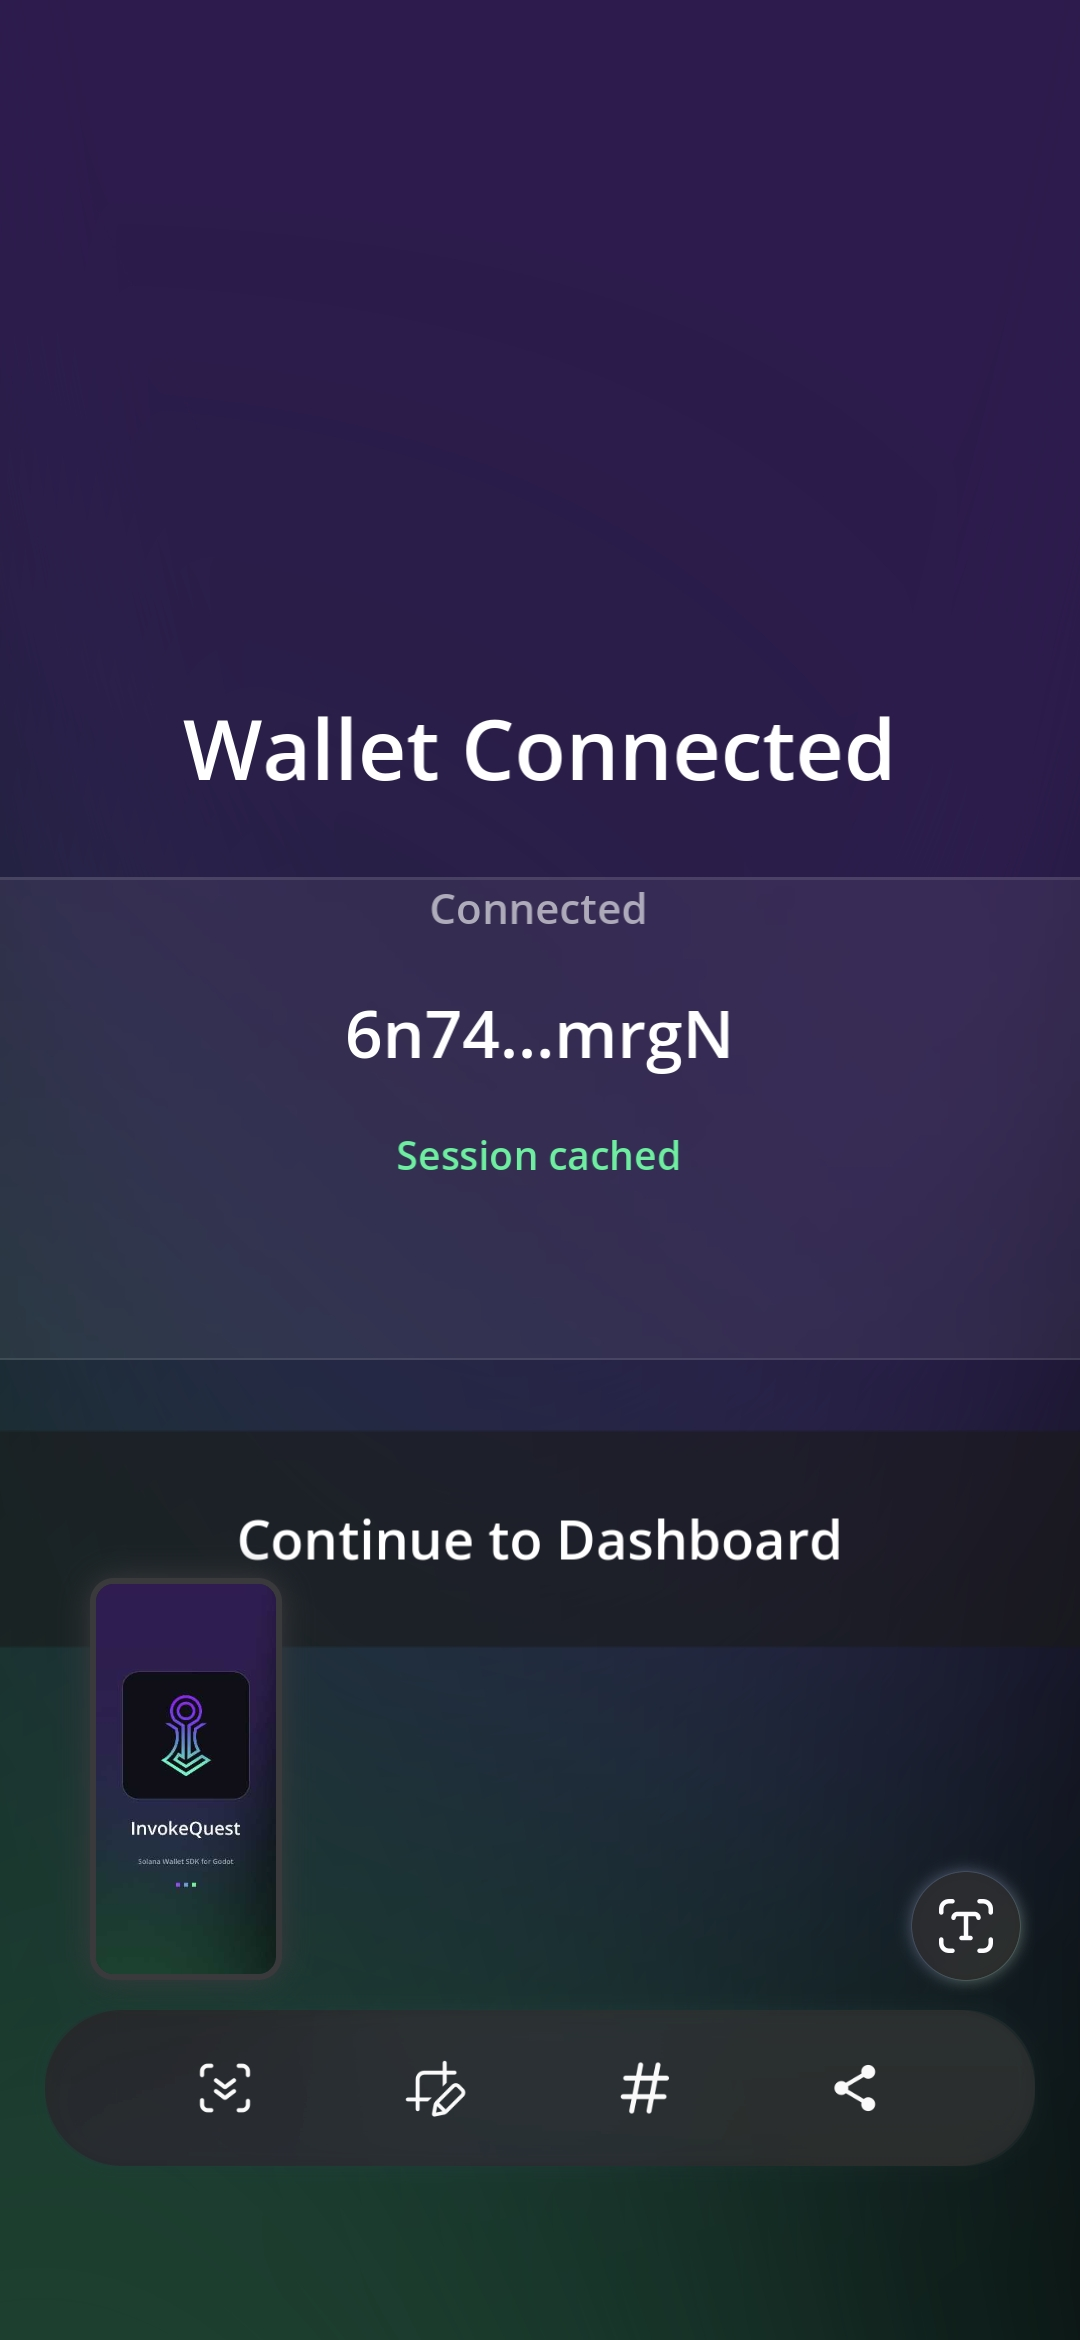
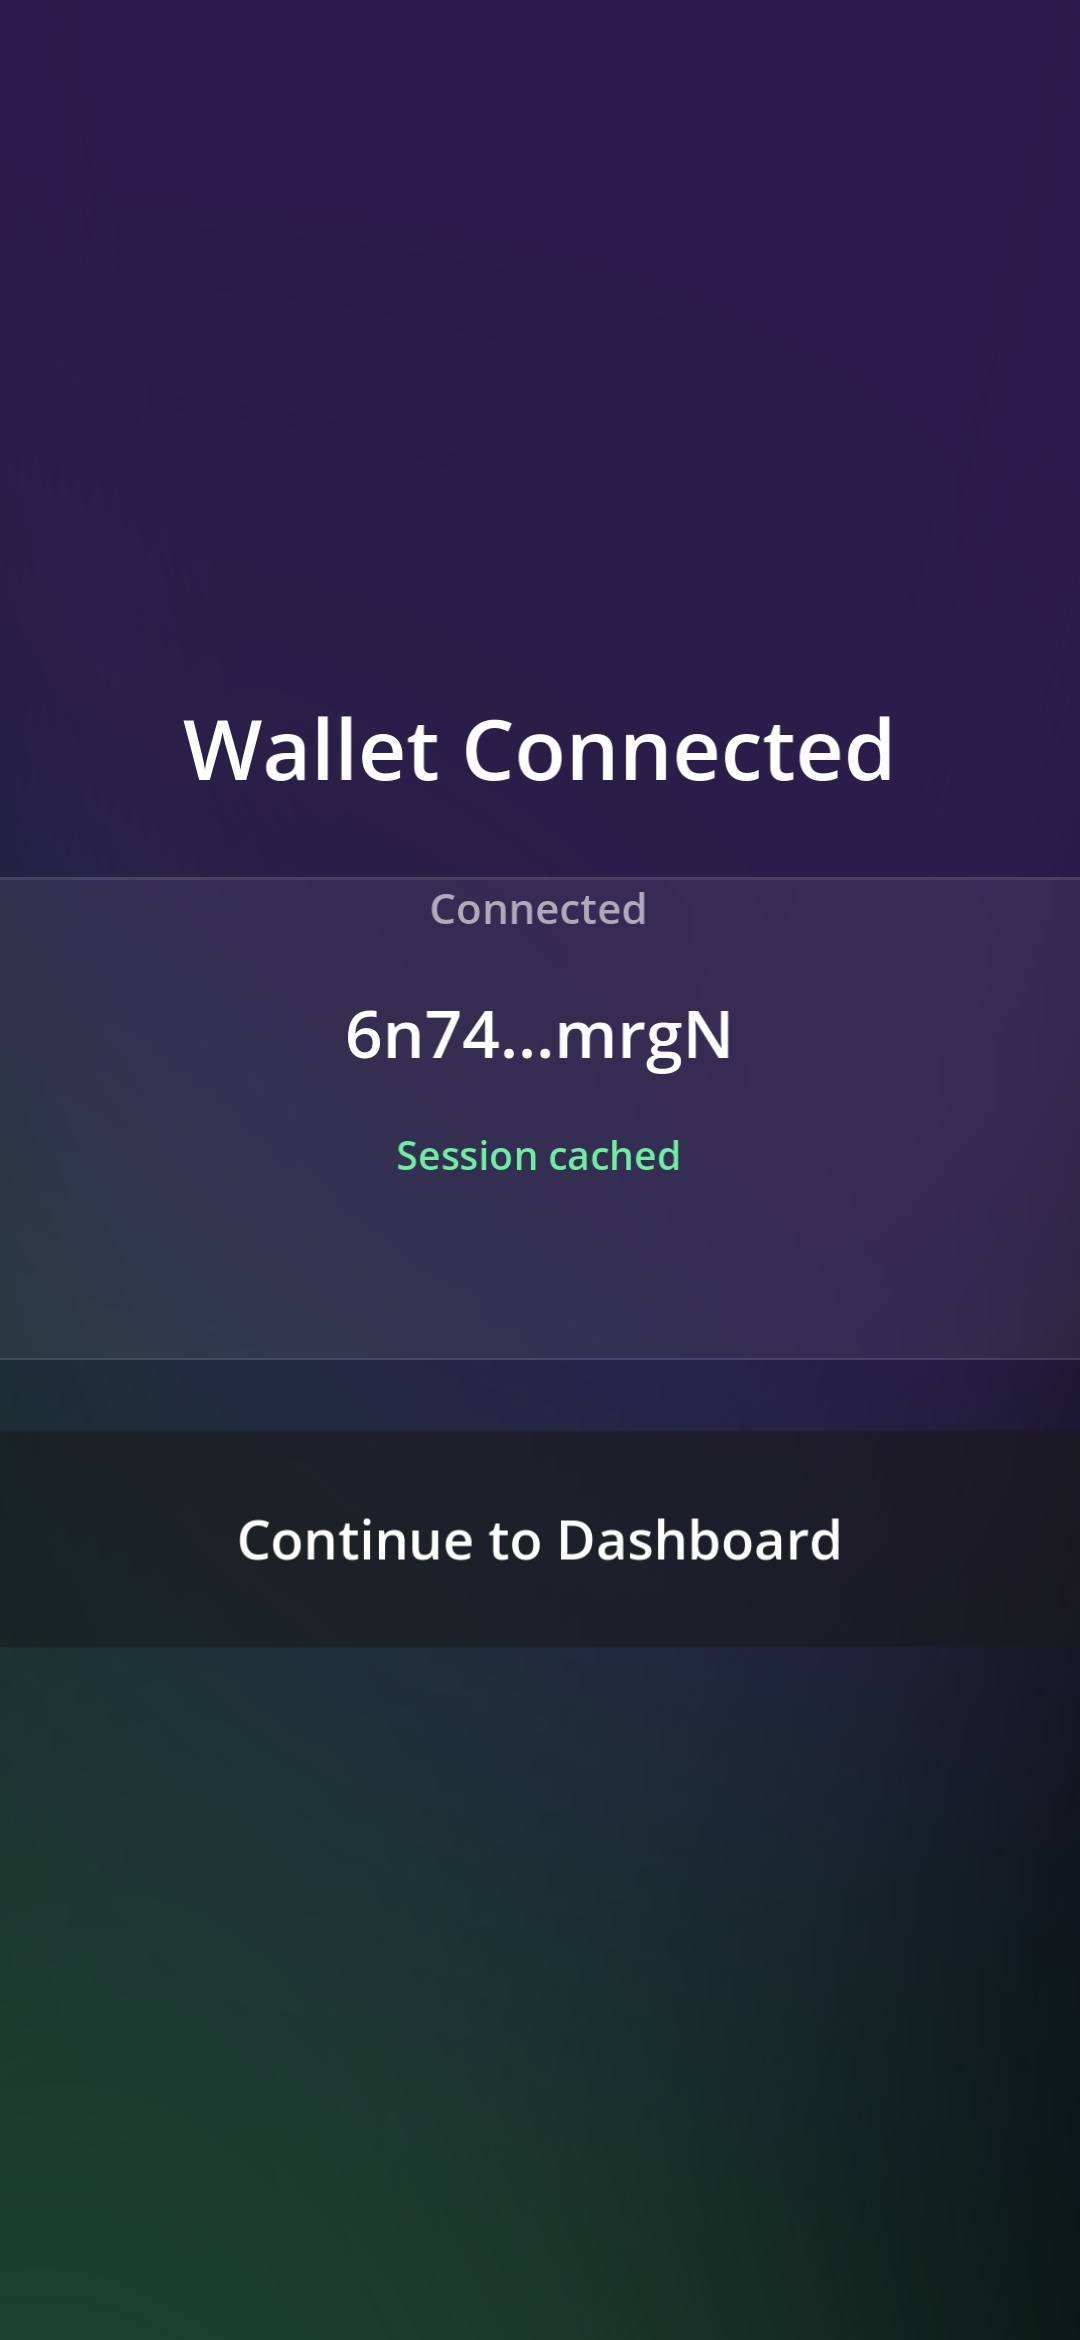
docs: add demo video, fix screenshot, trademark notice, Solscan note, demo app mention

diff --git a/README.md b/README.md
@@ -4,6 +4,8 @@
 
 **Solana Mobile Wallet Adapter 2.0.3 plugin for Godot 4 on Android**
 
+https://github.com/plinkdev1/invoke-solana-sdk/raw/main/docs/static/img/invoke-demo.mp4
+
 [![License: MIT](https://img.shields.io/badge/License-MIT-purple.svg)](LICENSE)
 [![Godot 4.2](https://img.shields.io/badge/Godot-4.2.2-blue)](https://godotengine.org)
 [![MWA 2.0.3](https://img.shields.io/badge/MWA-2.0.3-9945FF)](https://github.com/solana-mobile/mobile-wallet-adapter)
@@ -249,6 +251,12 @@ Auth tokens are stored in `EncryptedSharedPreferences` (AES256-GCM key + AES256-
 
 ---
 
+## Example App — InvokeQuest
+
+The repo includes **InvokeQuest**, a full example Android app that demonstrates every SDK method. Find it at `example/invokequest/`. It is a complete Godot 4 project with all screens, autoloads, and the compiled plugin — ready to build and run on any Android device.
+
+---
+
 ## Project Structure
 
 ```
@@ -279,6 +287,7 @@ invoke-solana-sdk/
 - **Backpack** — MWA 2.0 incompatible, not supported
 - **Phantom** — Rejects unverified dApp domains (register at [developer.phantom.app](https://developer.phantom.app))
 - **Silent reconnect** — Only within 30-minute window; stale sessions trigger wallet picker
+- **Solscan devnet** — Solscan dropped devnet support; transaction links only work on Testnet and Mainnet
 - **Wallet picker on every sign** — MWA protocol requirement, not a bug
 
 ---
@@ -320,6 +329,12 @@ cd ..\example\invokequest\android\build
 ```
 
 See [CONTRIBUTING.md](CONTRIBUTING.md) for the full build pipeline, signing setup, and scene asset workflow.
+
+---
+
+## Trademark Notice
+
+Solana, the Solana logo, Phantom, Solflare, Jupiter, Backpack, and Godot Engine are trademarks or registered trademarks of their respective owners. This project is an independent open-source SDK and is not affiliated with, endorsed by, or sponsored by Solana Foundation, Phantom, Solflare, Jupiter, or the Godot Engine project.
 
 ---
 